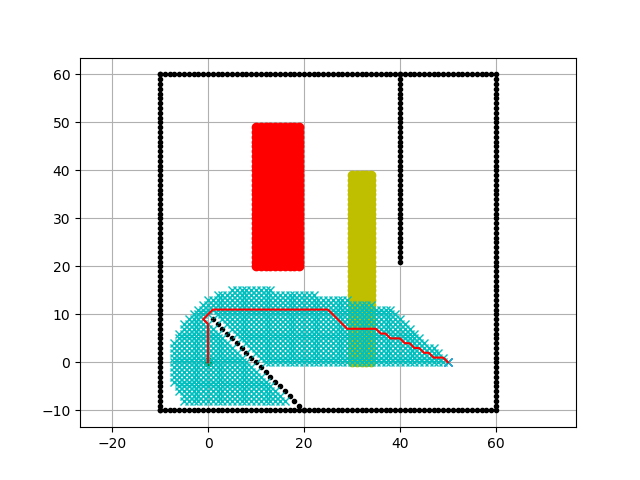
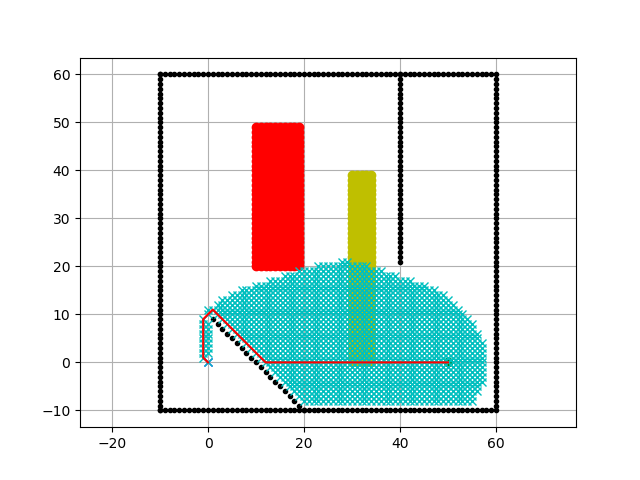
update task1 result

Changed region(s): [[0.25, 0.5312, 0.7812, 0.8438]]

diff --git a/GP8-path-task1.py b/GP8-path-task1.py
@@ -22,7 +22,7 @@ import signal
 
 import sys
 
-show_animation = False
+show_animation = True
 
 
 
@@ -297,9 +297,9 @@ def main():
     print(__file__ + " start the A star algorithm demo !!") # print simple notes
 
     # start and goal position
-    sx = 0.0  # [m]
+    sx = 50.0  # [m]
     sy = 0.0  # [m]
-    gx = 50.0  # [m]
+    gx = 0.0  # [m]
     gy = 0.0  # [m]
     grid_size = 1  # [m]
     robot_radius = 1.0  # [m]
@@ -320,9 +320,7 @@ def main():
         oy.append(i)
     for i in range(-10, 10):
         ox.append(10-i)
-        ox.append(10-i-0.3)
         oy.append(i)
-        oy.append(i-0.3)
     for i in range(0, 40):
         ox.append(40.0)
         oy.append(60.0 - i)
@@ -358,7 +356,6 @@ def main():
 
     if show_animation:  # pragma: no cover
         plt.plot(rx, ry, "-r") # show the route 
-        plt.pause(0.001) # pause 0.001 seconds
         plt.show() # show the plot
 
 

diff --git a/GP8-path-task3.py b/GP8-path-task3.py
@@ -351,7 +351,7 @@ def main():
     for i in range(0,7):
         pc_x.append(40-i)
         pc_y.append(i)  
-    for i in range(6,11):
+    for i in range(6,10):
         pc_x.append(39-i)
         pc_y.append(i)
     
